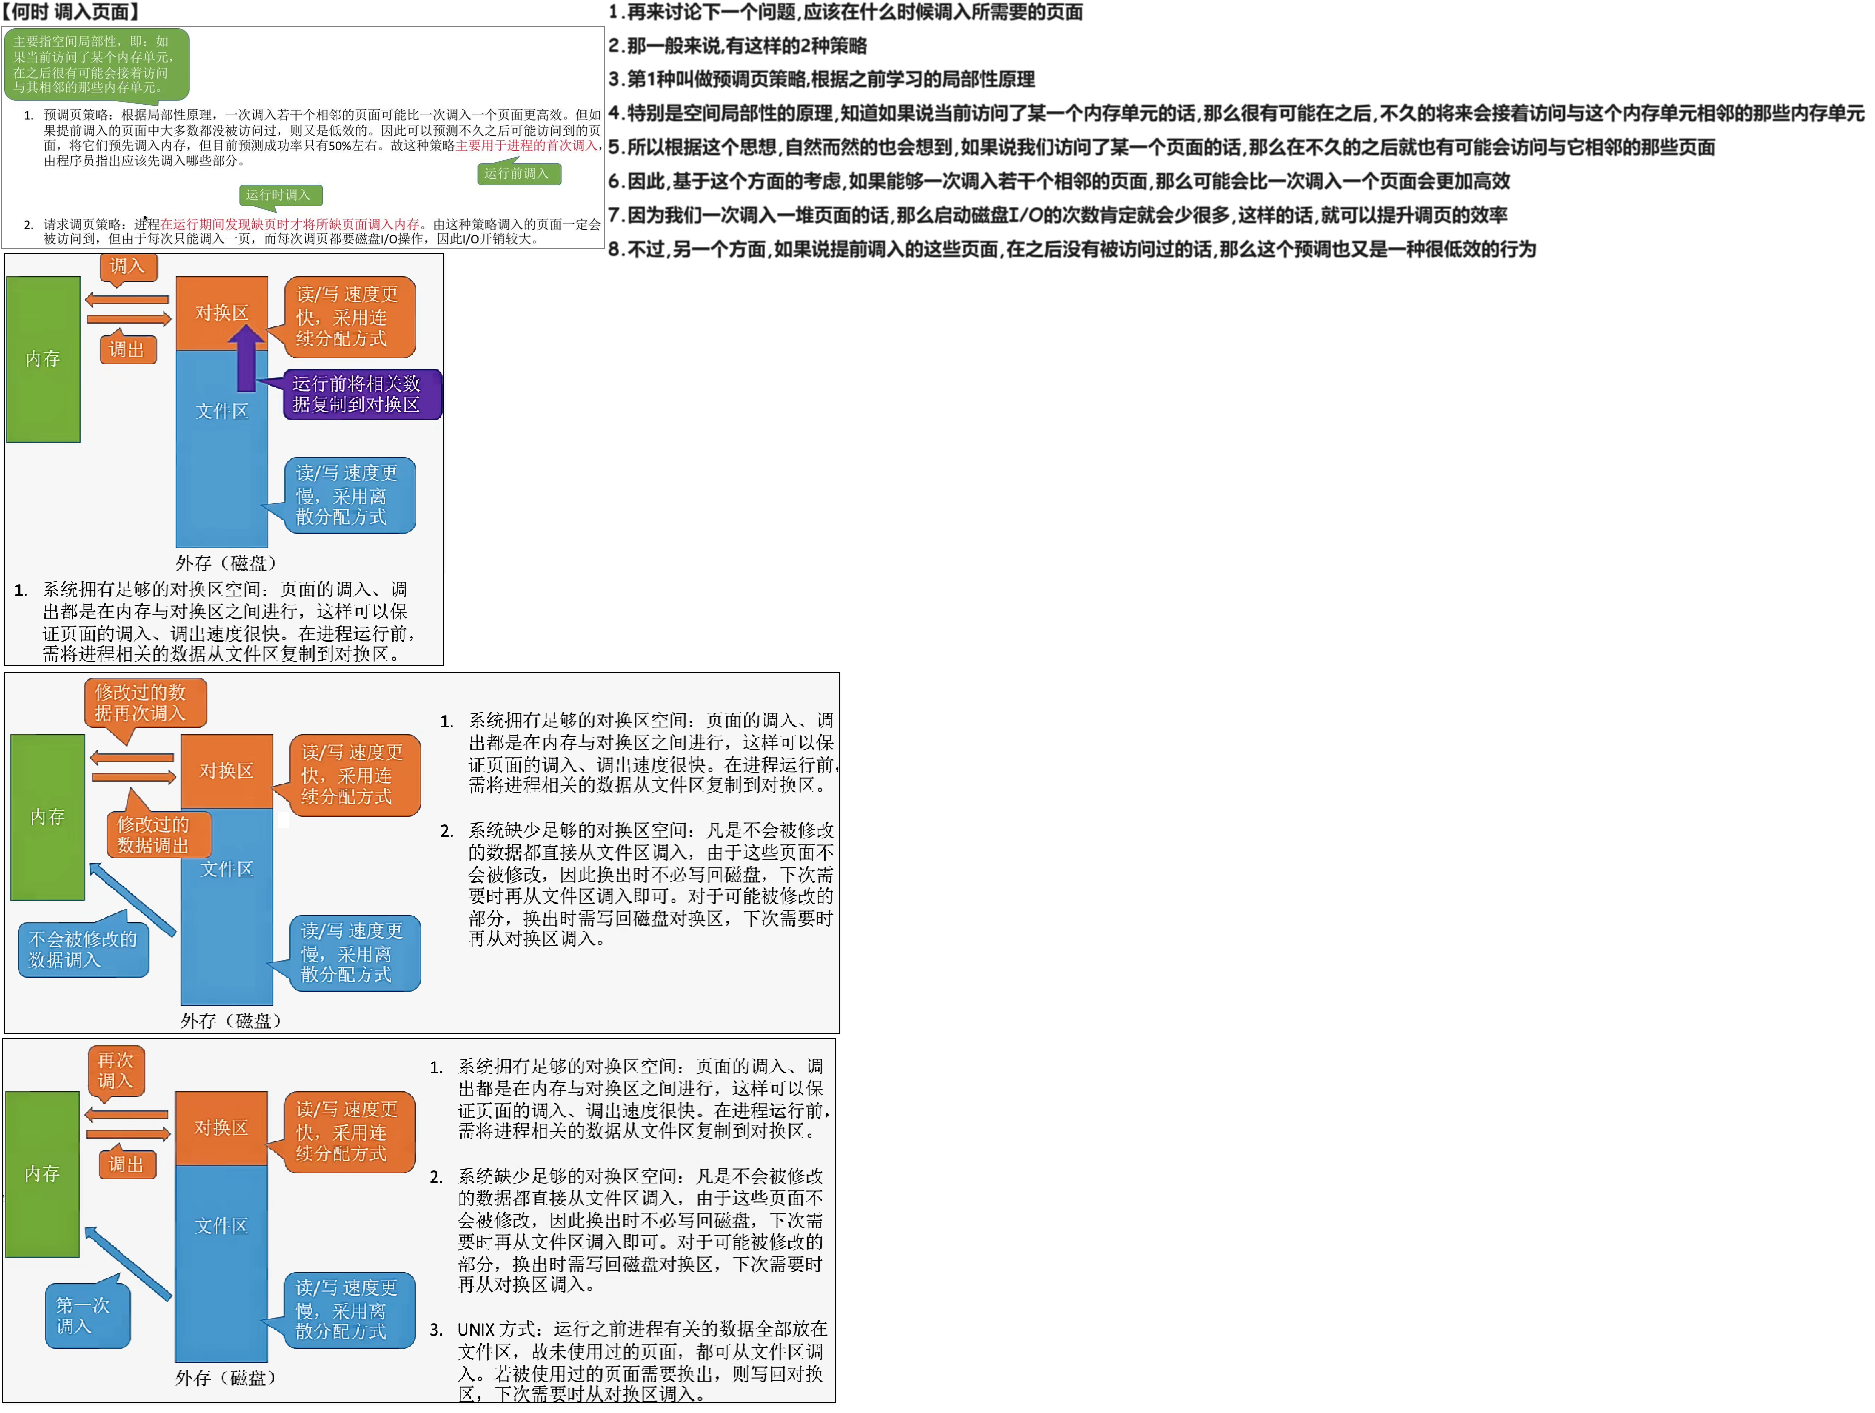
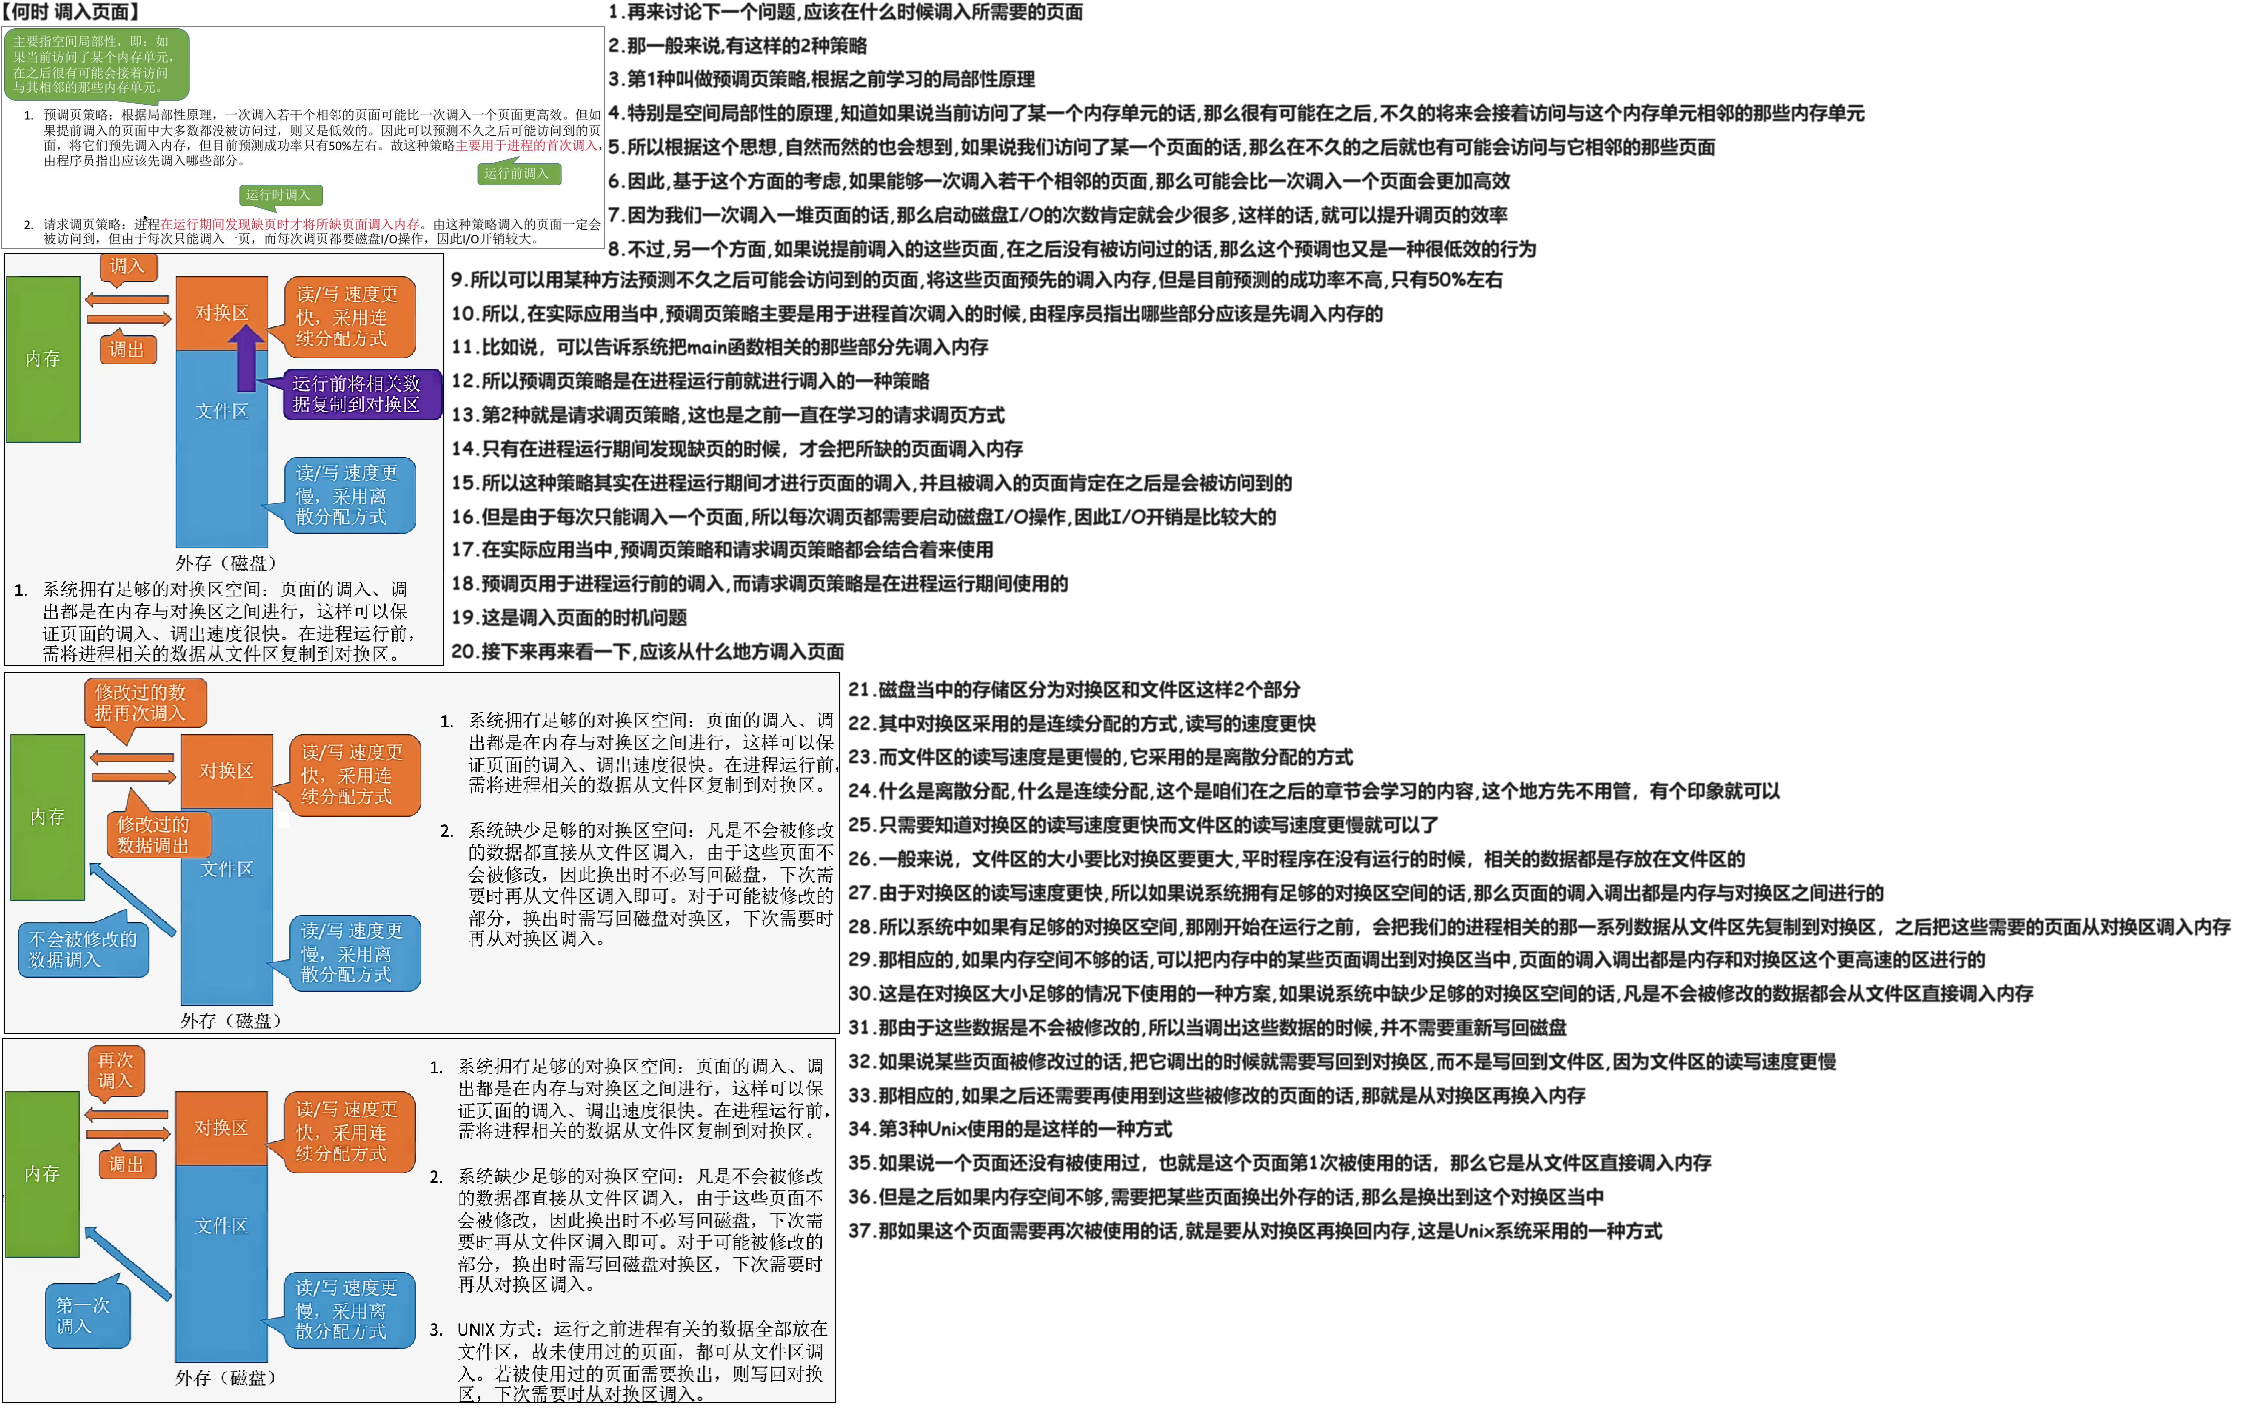
240704

Changed region(s): [[0.0, 0.0, 1.0, 0.9965]]

diff --git a/01 初试/01 OS/02 24 25 王道/01 基础/03 内存管理/02 虚拟内存管理/04 页面分配策略 240630/01 消化/02 Doc.md b/01 初试/01 OS/02 24 25 王道/01 基础/03 内存管理/02 虚拟内存管理/04 页面分配策略 240630/01 消化/02 Doc.md
@@ -18,13 +18,13 @@
 
 # 03 何时 调入页面
 
-<img src="https://cvp.oss-cn-shanghai.aliyuncs.com/picgo/202405201701219.png" alt="image-20240520170152771" style="zoom:50%;" />
+<img src="https://cvp.oss-cn-shanghai.aliyuncs.com/picgo/202407040848522.png" alt="image-20240704084812876" style="zoom:50%;" />
 
 
 
 # 04 抖动 颠簸 现象
 
-<img src="https://cvp.oss-cn-shanghai.aliyuncs.com/picgo/202405201714054.png" style="zoom:50%;" />
+
 
 
 
